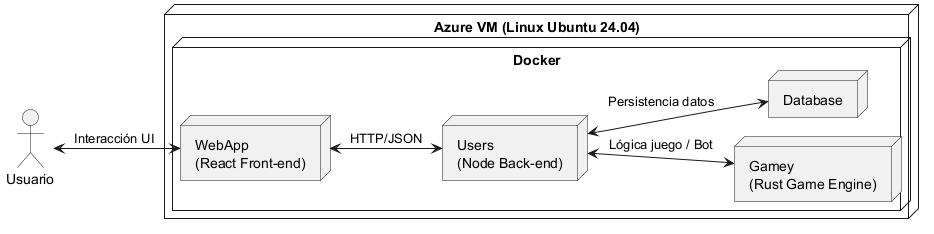
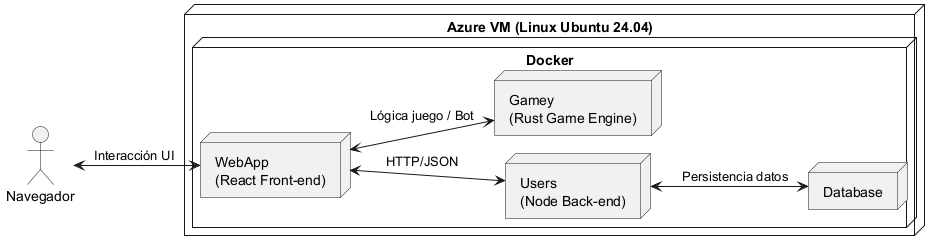
Updates

diff --git a/index.html b/index.html
@@ -450,7 +450,6 @@ body.book #toc,body.book #preamble,body.book h1.sect0,body.book .sect1>h2{page-b
 <li><a href="#_vista_general_de_los_requisitos">1.1. Vista general de los requisitos</a></li>
 <li><a href="#_requisitos_de_calidad">1.2. Requisitos de Calidad</a></li>
 <li><a href="#_stakeholders">1.3. Stakeholders</a></li>
-<li><a href="#_stakeholders_2">1.4. Stakeholders</a></li>
 </ul>
 </li>
 <li><a href="#section-architecture-constraints">2. Restricciones de Arquitectura</a>
@@ -858,9 +857,6 @@ If you as an architect do not know how the quality of your work will be judged&#
 </div>
 </div>
 </div>
-</div>
-<div class="sect2">
-<h3 id="_stakeholders">1.3. Stakeholders</h3>
 <div class="sidebarblock arc42help">
 <div class="content">
 <div class="paragraph">
@@ -900,7 +896,7 @@ These stakeholders determine the extent and the level of detail of your work and
 </div>
 </div>
 <div class="sect2">
-<h3 id="_stakeholders_2">1.4. Stakeholders</h3>
+<h3 id="_stakeholders">1.3. Stakeholders</h3>
 <table class="tableblock frame-all grid-all stretch">
 <colgroup>
 <col style="width: 33.3333%;">
@@ -1457,7 +1453,8 @@ La separación entre WebApp y Gamey permite desacoplar la interfaz de usuario de
 <p><strong>OpenApi</strong></p>
 </div>
 <div class="paragraph">
-<p>Comunica el front-end con el back-end siguiendo el protocolo HTTP y con el formato JSON. Las principales operaciones que contempla son :</p>
+<p>Comunica el front-end con el back-end Node siguiendo el protocolo HTTP y con el formato JSON. Expone una serie de operaciones para almacenar información de relevancia en la BD.
+Entre toda esa información, se encuentra:</p>
 </div>
 <div class="ulist">
 <ul>
@@ -1482,6 +1479,12 @@ La separación entre WebApp y Gamey permite desacoplar la interfaz de usuario de
 <div class="paragraph">
 <p>Comunica el bot con el resto de la aplicación siguiendo el protocolo HTTP y con el formato JSON. La única operación que contempla es la realización de movimientos
 por parte del bot.</p>
+</div>
+<div class="paragraph">
+<p><strong>GameServer</strong></p>
+</div>
+<div class="paragraph">
+<p>Expone el método play para determinar la validez de una jugada realizada por los usuarios y determinar si la jugada permite ganar la partida actua..</p>
 </div>
 <div class="sidebarblock arc42help">
 <div class="content">
@@ -1528,7 +1531,7 @@ Its headline is the name of the black box.</p>
 </div>
 <div class="imageblock">
 <div class="content">
-<img src="./images/Nivel%202.png" alt="Nivel 2" width="1156" height="319">
+<img src="./images/Nivel%202.png" alt="Nivel 2" width="992" height="375">
 </div>
 </div>
 <div class="dlist">
@@ -1558,11 +1561,11 @@ Its headline is the name of the black box.</p>
 </tr>
 <tr>
 <td class="tableblock halign-left valign-top"><p class="tableblock">OpenApi</p></td>
-<td class="tableblock halign-left valign-top"><p class="tableblock">Comunica el front-end (WebApp) con el back-end (Users).</p></td>
+<td class="tableblock halign-left valign-top"><p class="tableblock">Comunica el front-end (WebApp) con el back-end Node (Users).</p></td>
 </tr>
 <tr>
 <td class="tableblock halign-left valign-top"><p class="tableblock">Users</p></td>
-<td class="tableblock halign-left valign-top"><p class="tableblock"> Gestiona la interacción del usuario.</p></td>
+<td class="tableblock halign-left valign-top"><p class="tableblock"> Gestiona la interacción con la base de datos.</p></td>
 </tr>
 <tr>
 <td class="tableblock halign-left valign-top"><p class="tableblock">Database</p></td>
@@ -1570,15 +1573,19 @@ Its headline is the name of the black box.</p>
 </tr>
 <tr>
 <td class="tableblock halign-left valign-top"><p class="tableblock">Bot</p></td>
-<td class="tableblock halign-left valign-top"><p class="tableblock"> Contiene la lógica relacionada con el bot.</p></td>
+<td class="tableblock halign-left valign-top"><p class="tableblock"> Contiene la lógica de los bots.</p></td>
 </tr>
 <tr>
 <td class="tableblock halign-left valign-top"><p class="tableblock">BotServer</p></td>
-<td class="tableblock halign-left valign-top"><p class="tableblock"> Permite la interacción del back-end con el bot.</p></td>
+<td class="tableblock halign-left valign-top"><p class="tableblock"> Permite la interacción del sistema con los bots.</p></td>
 </tr>
 <tr>
 <td class="tableblock halign-left valign-top"><p class="tableblock">Core</p></td>
 <td class="tableblock halign-left valign-top"><p class="tableblock"> Contiene la lógica del juego y gestiona el estado del mismo y la validación de movimientos y reglas.</p></td>
+</tr>
+<tr>
+<td class="tableblock halign-left valign-top"><p class="tableblock">GameServer</p></td>
+<td class="tableblock halign-left valign-top"><p class="tableblock"> Permite la interacción del sistema con la lógica del juego.</p></td>
 </tr>
 <tr>
 <td class="tableblock halign-left valign-top"><p class="tableblock">Notation</p></td>
@@ -1834,7 +1841,7 @@ when your infrastructure is more complex.</p>
 </div>
 <div class="imageblock">
 <div class="content">
-<img src="./images/Diagrama%20de%20despliegue.png" alt="Diagrama de despliegue" width="934" height="234">
+<img src="./images/Diagrama%20de%20despliegue.png" alt="Diagrama de despliegue" width="940" height="251">
 </div>
 </div>
 <div class="dlist">
@@ -1842,7 +1849,7 @@ when your infrastructure is more complex.</p>
 <dt class="hdlist1">Motivation</dt>
 <dd>
 <p>La aplicación se despliega sobre un servidor de Azure, en el que cada módulo que constituye el sistema se encuentra encapsulado en un contenedor de Docker. El usuario interactua con el sistema a través de una interfaz diseñada con React. Está se comunica con el back-end mediante OpenApi. A su vez, el back-end se comunica con la base de datos con la api mencionada anteriormente.
-El back-end también se comunica con el módulo de juego mediante el módulo Rust Bot-server.</p>
+El front-end también se comunica con el módulo de juego mediante los módulo Bot-server y Game-server.</p>
 </dd>
 <dt class="hdlist1">Características de calidad/rendimiento</dt>
 <dd>
@@ -1879,7 +1886,7 @@ continuo de nuestra aplicación.</p>
 </tr>
 <tr>
 <td class="tableblock halign-left valign-top"><p class="tableblock">Users</p></td>
-<td class="tableblock halign-left valign-top"><p class="tableblock">Back-end diseñado con Node para gestionar la lógica de la aplicación.</p></td>
+<td class="tableblock halign-left valign-top"><p class="tableblock">Back-end diseñado con Node para gestionar la interacción con la BD.</p></td>
 </tr>
 <tr>
 <td class="tableblock halign-left valign-top"><p class="tableblock">Gamey</p></td>
